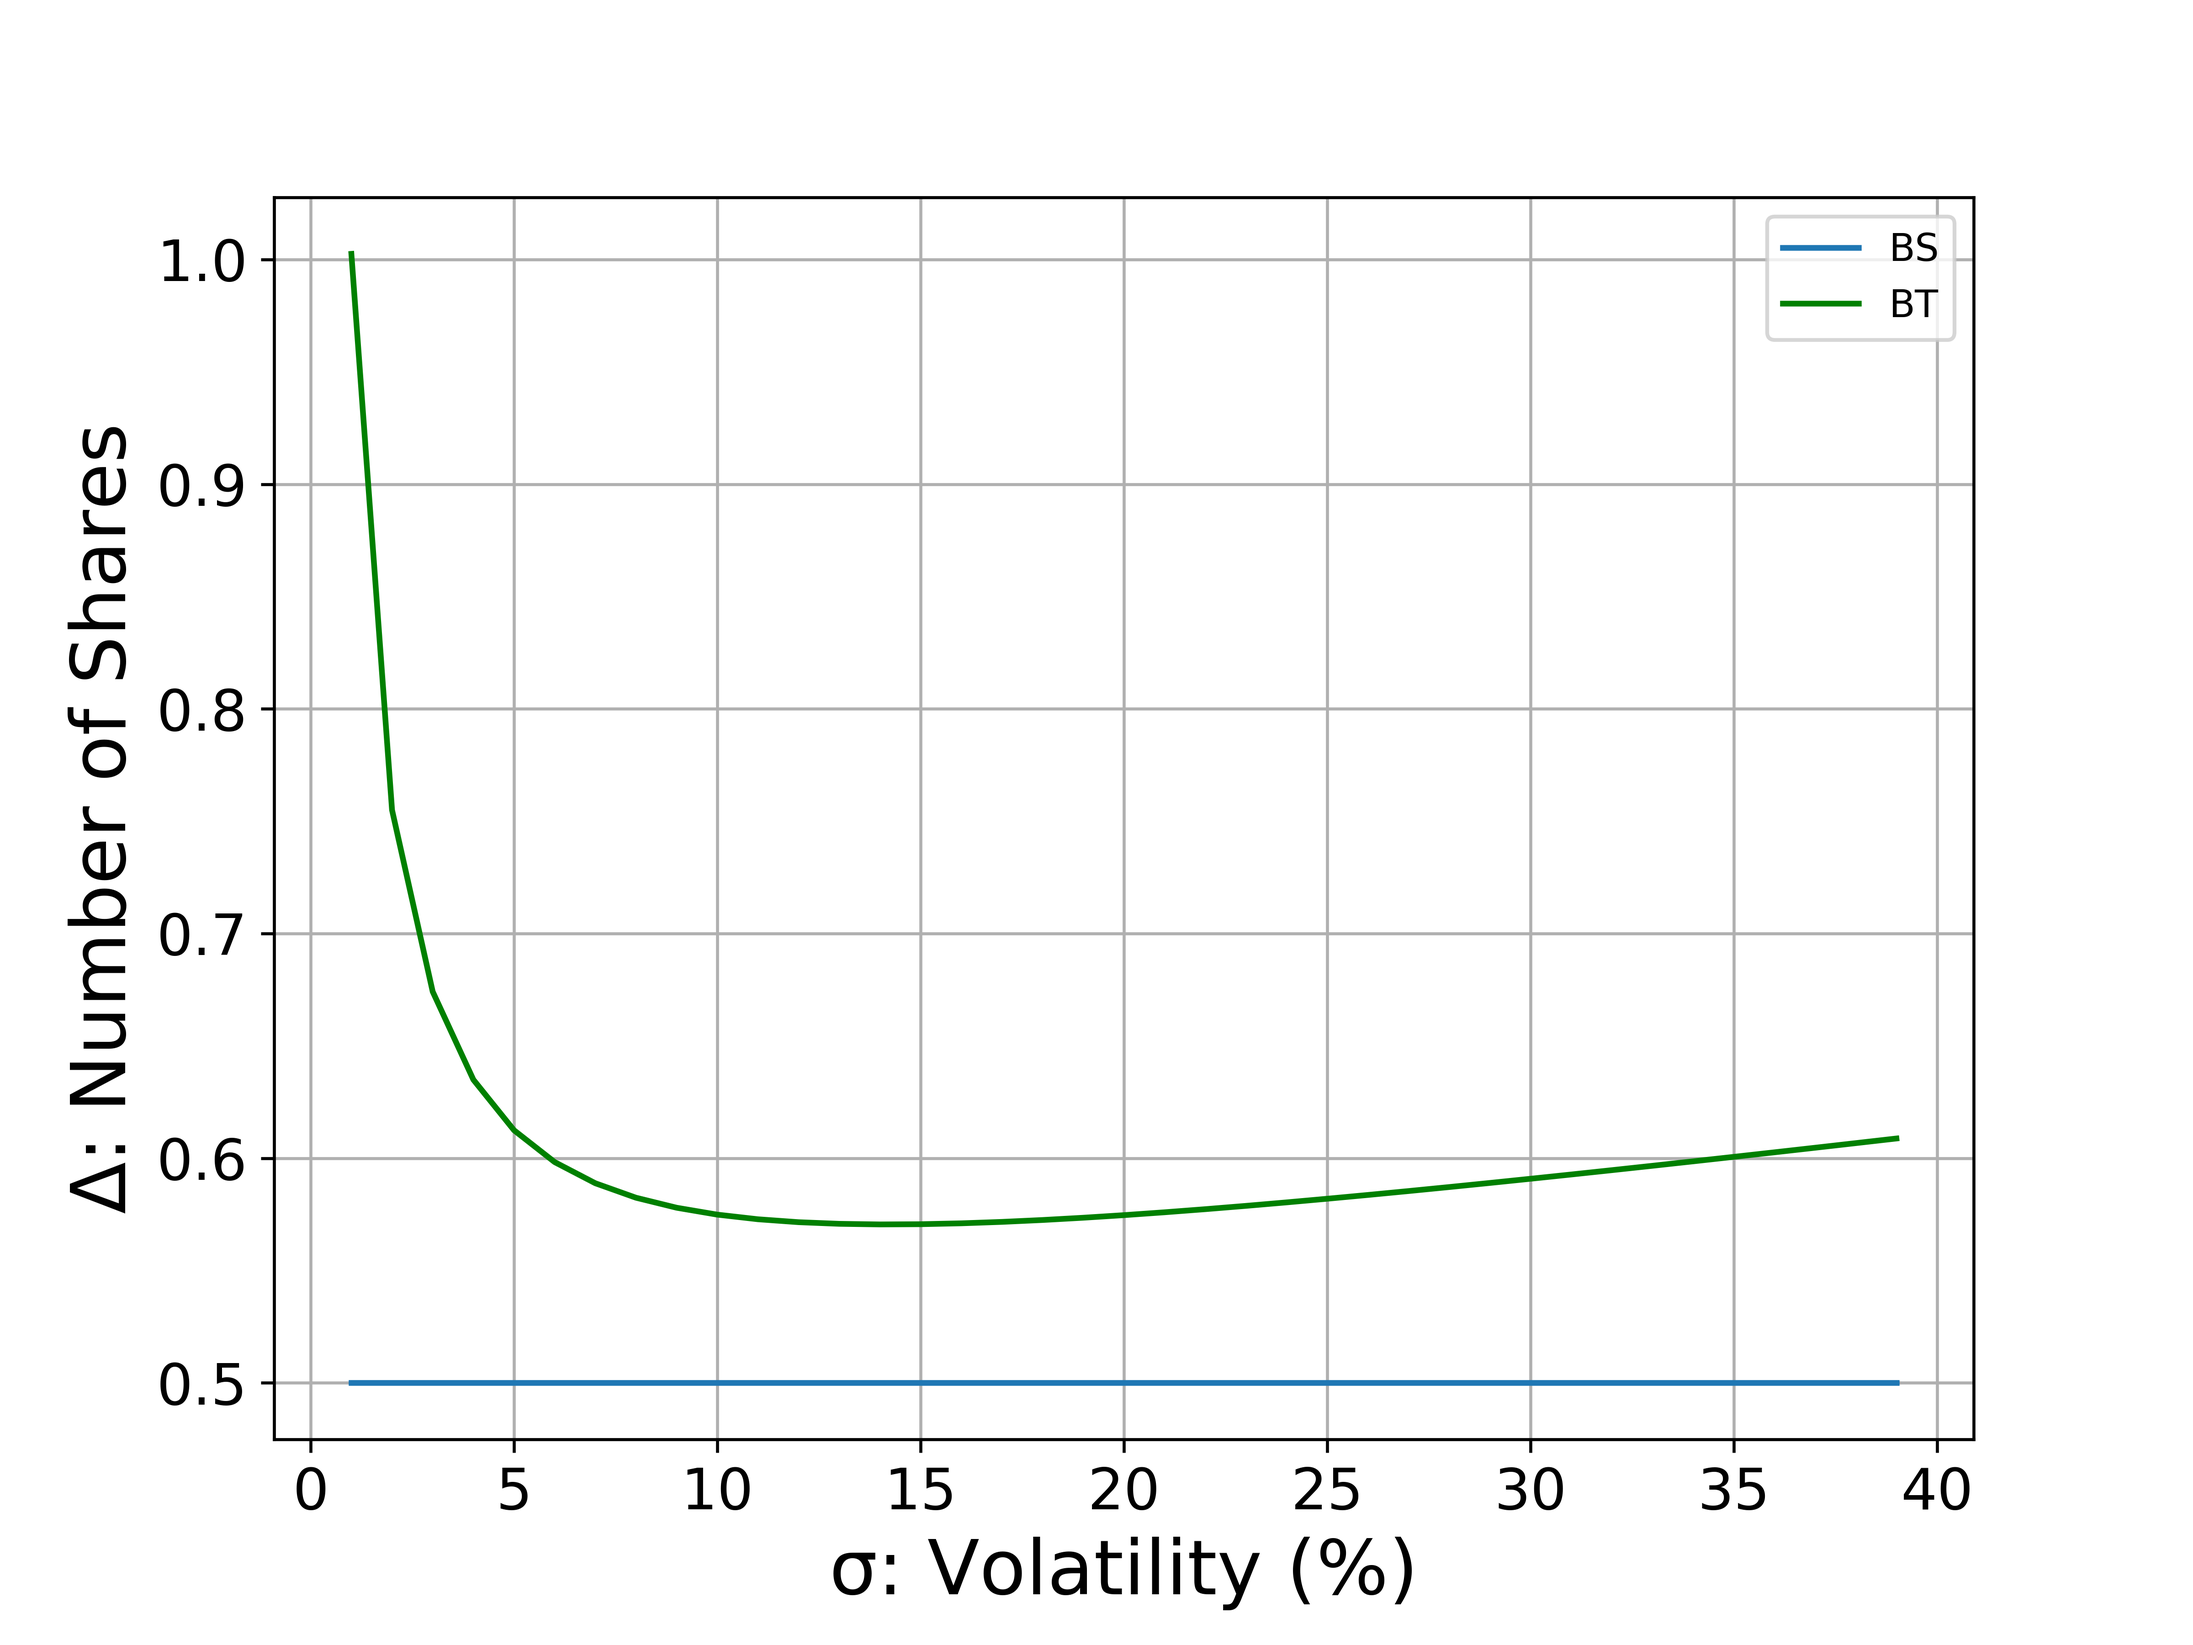
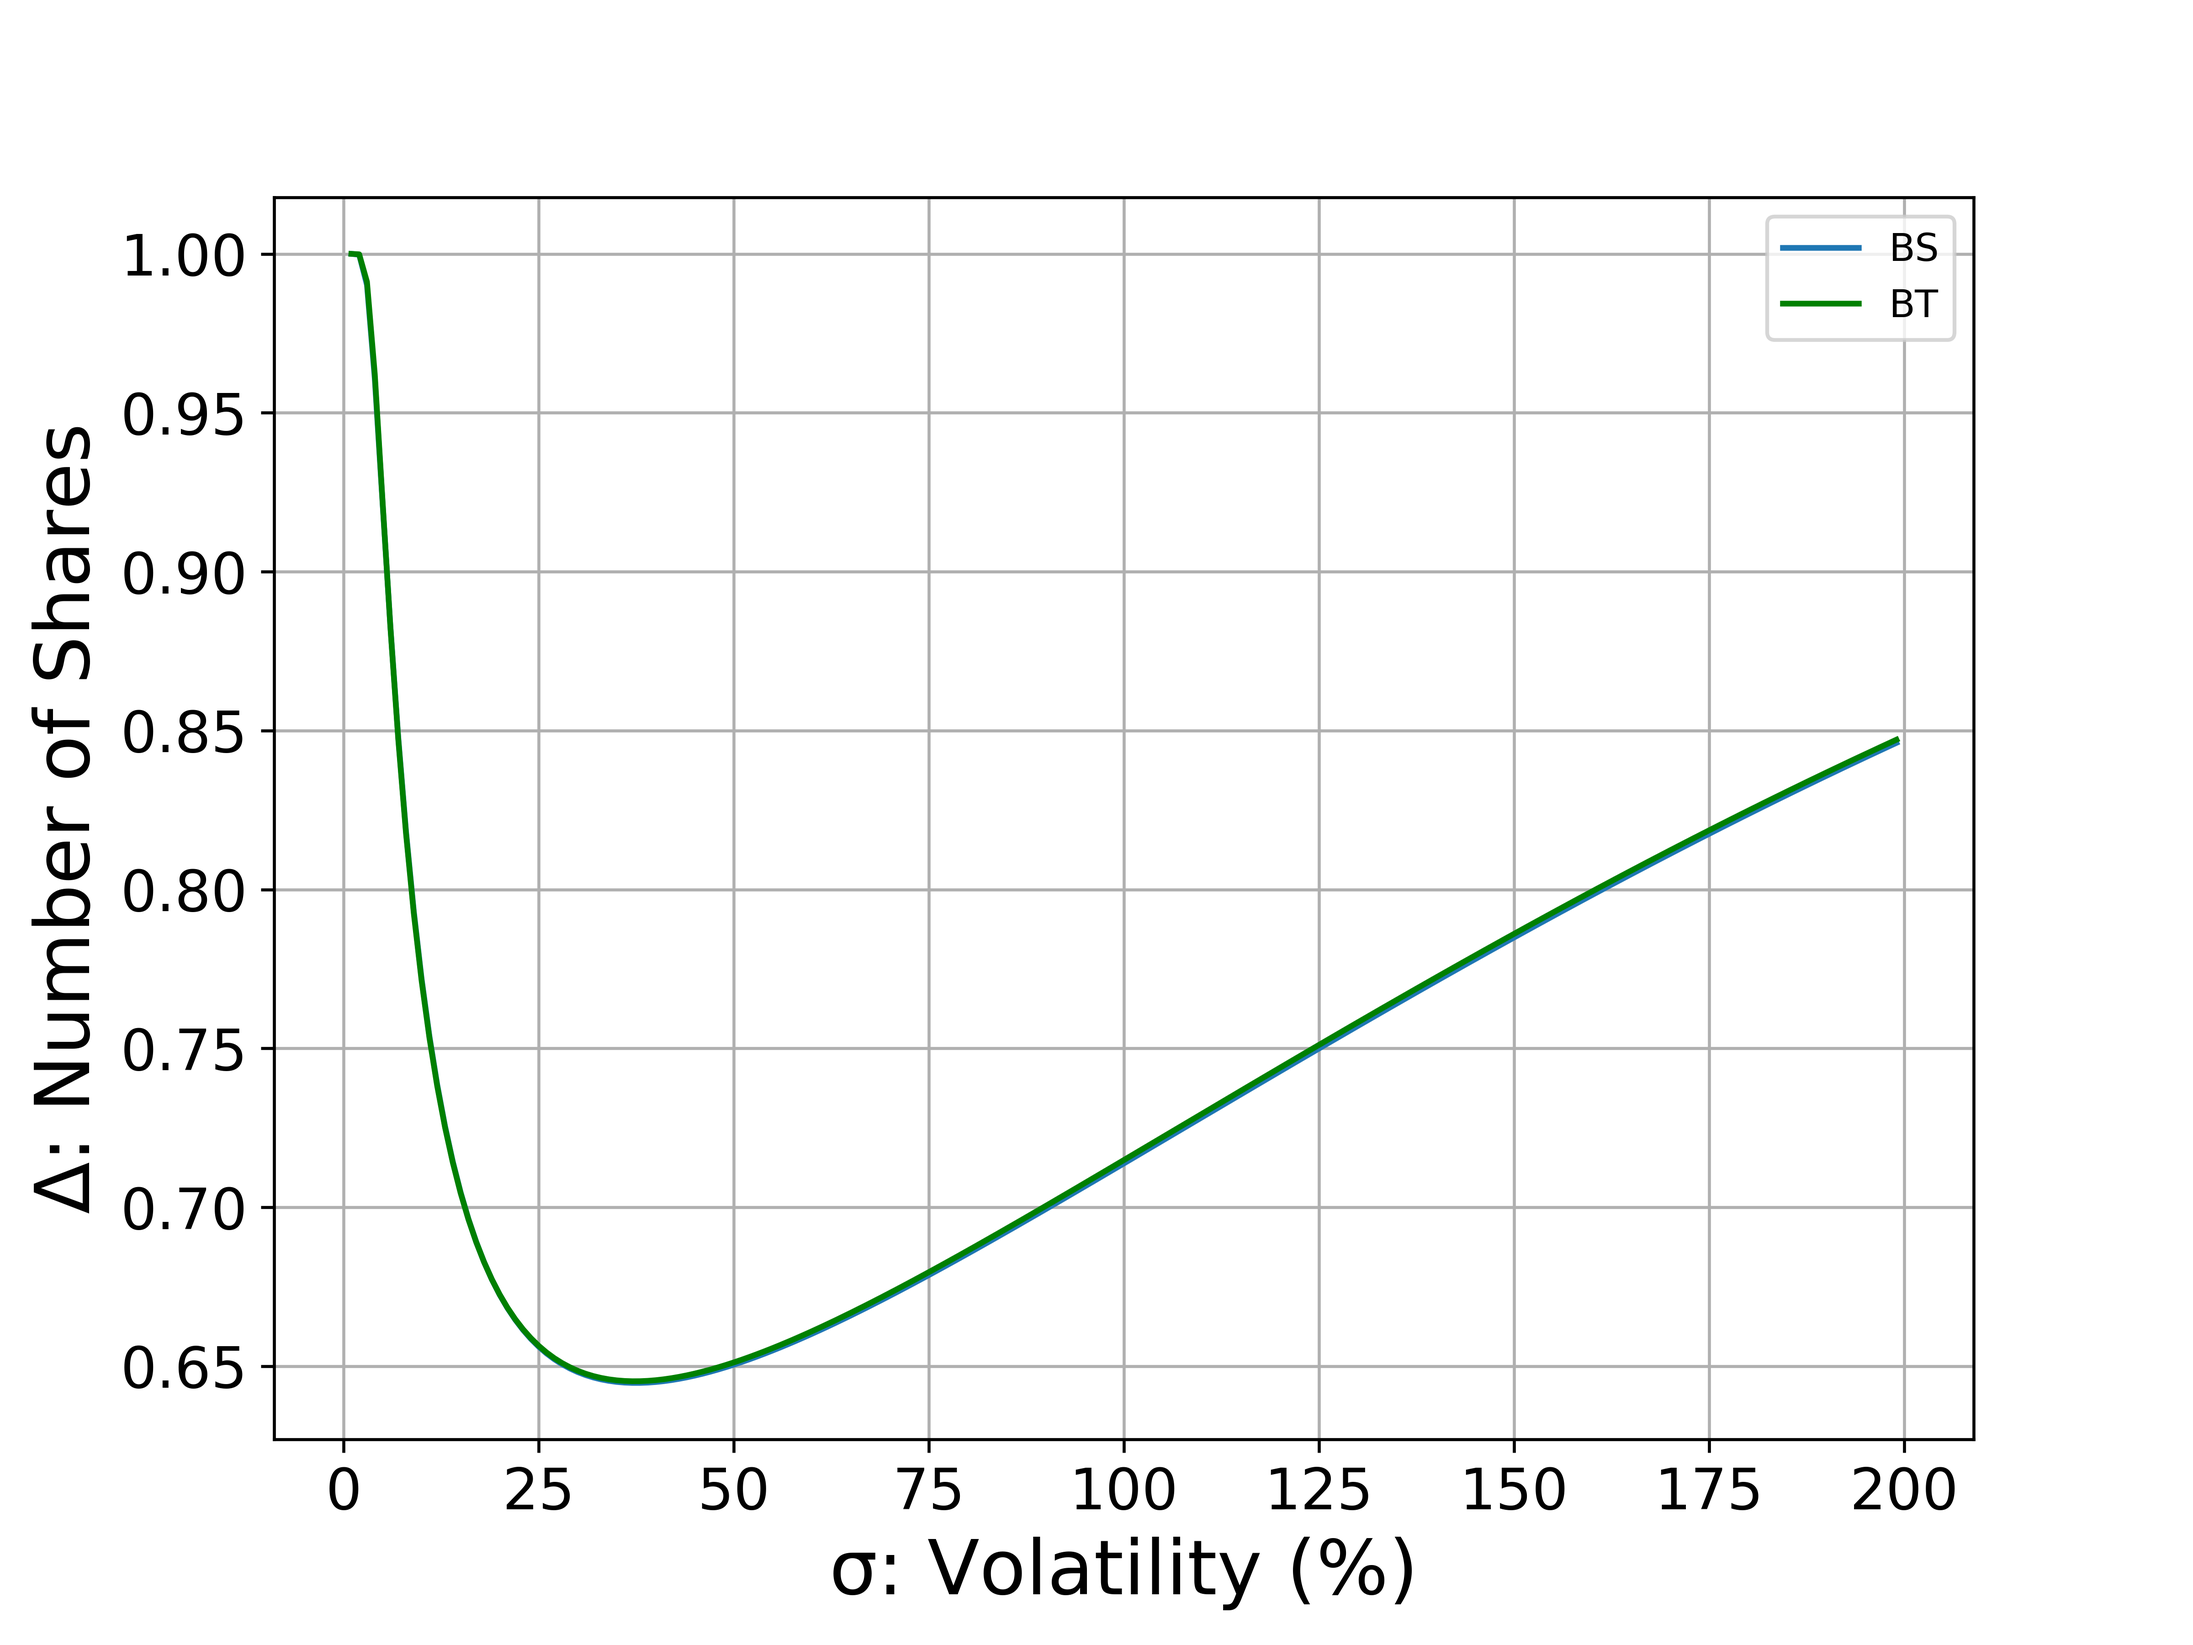
Fixed

diff --git a/BinomialTree.py b/BinomialTree.py
@@ -27,7 +27,7 @@ def black_scholes(t,st,k,T,sigma,r):
 #black_scholes(0,100,99,1,0.2,0.06)
     
     d1_factor = (math.log(st/k)+(r+(sigma**2/2))*(T-t))
-    d1 = (1/sigma * math.sqrt(T-t)) * d1_factor
+    d1 = (1/(sigma * math.sqrt(T-t))) * d1_factor
     d2 = d1 - sigma*math.sqrt(T-t)
     
     delta = N(d1)
@@ -58,7 +58,7 @@ def b_tree(K, r, s0, sigma, time, steps, c = 0):
         c: option type; call option if c == 0, else put option
     """
 
-    dt = time / steps
+    dt = time / (steps)
 
     u = math.exp(sigma*math.sqrt(dt))
     d = math.exp(-sigma*math.sqrt(dt))
@@ -68,10 +68,6 @@ def b_tree(K, r, s0, sigma, time, steps, c = 0):
     l_stocks = []
     l_option = []
     dt_options = []
-
-    #calculate delta
-    #delta =  (-)/(s0 * u - s0 * d)
-  
 
     # Calculate the stock values at expiration
     for i in range(steps+1):
@@ -96,9 +92,10 @@ def b_tree(K, r, s0, sigma, time, steps, c = 0):
         
         l_option.pop()
         
-        if len(l_option) == 3:
-                 dt_options.append(l_option[j-1])
-                 dt_options.append(l_option[j])   
+        if len(l_option) == 2:
+            dt_options.append(l_option[j-1])
+            dt_options.append(l_option[j]) 
+                 
 
     return dt_options, l_option[0], l_stocks
 
@@ -200,6 +197,7 @@ def hedge_vs_volatility(initvol,vol_range,vol_increment,K, r, s0, time, steps):
         
     '''
     
+    
     hedge_parameters_analytical = []
     hedge_parameters_BT = []
       
@@ -211,23 +209,24 @@ def hedge_vs_volatility(initvol,vol_range,vol_increment,K, r, s0, time, steps):
     
     for sigma in hedge_range:
     
+        dt = time / (steps)
+            
+        u = math.exp((sigma/100)*math.sqrt(dt))
+        d = math.exp((-sigma/100)*math.sqrt(dt))
         
-        #Stock Prices at Maturity
-        S_TU = b_tree(K, r, s0, sigma/100, time, 1)[1][0]
-        S_TD = b_tree(K, r, s0, sigma/100, time, 1)[1][steps]
         #Option Prices at Maturity
-        C_U = S_TU-K
-        C_D = 0
+        C_U = b_tree(K, r, s0, sigma/100, time, steps, c=0)[0][0]
+        C_D = b_tree(K, r, s0, sigma/100, time, steps, c=0)[0][1]
         
         #to be fixed#
-        deltaA = black_scholes(1,s0,K,time,sigma,r)[0]
-        deltaB = (C_U - C_D)/(S_TU-S_TD)
+        deltaA = black_scholes(1/steps,s0,K,time,sigma/100,r)[0]
+        deltaB = (C_U - C_D)/(s0*u-s0*d)
         #############
         
         hedge_parameters_analytical.append(deltaA)
         hedge_parameters_BT.append(deltaB)
         
-    plt.figure(figsize=(8,6))
+    plt.figure(figsize=(8,6))   
     plt.grid()
     plt.ylabel('Δ: Number of Shares',fontsize=20)
     plt.xlabel('σ: Volatility (%)',fontsize=20)
